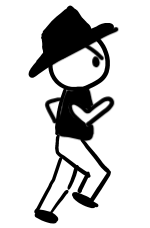
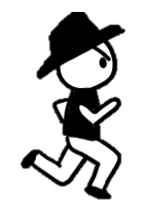
용의 불피하는 캐릭터로 변신완료 js  완료

Changed region(s): [[0.1342, 0.0, 0.8591, 0.9955]]

diff --git a/main.js b/main.js
@@ -1,21 +1,25 @@
+// Setting
 var canvas = document.getElementById('canvas');
 var ctx = canvas.getContext('2d');
 
-canvas.width =window.innerWidth -100;
-canvas.height =window.innerHeight -100;
+canvas.width =700;
+canvas.height =300;
+
+
 // 여기까지가 기본 canvas를 사용하기 위한 환경을 마련한것.
 
 // object자료로 등장 캐릭터의 속성을 미리 정의
+var imgArr = [];
+for (let index = 0; index < 10; index++) {
+    var imgname = `image/man${index}.png`;
+    var image = new Image();
+    image.src=imgname;
+    imgArr.push(image);
+}
 
-// var img 
-// for (let index = 0; index < array.length; index++) {
-//     const element = array[index];
-    
-// }
-
-var img1 = new Image();
-img1.src='image/man1.png';
-
+// var img1 = new Image();
+// img1.src='image/man1.png';
+var nowNum=0;
 var dino = {
     // 공룡 등장 위치
     x:10, 
@@ -25,15 +29,35 @@ var dino = {
     height : 72,
 
     // 공룡 등장마다 호출할 method
+    nowNum : 0,
     draw(){
-        ctx.fillStyle = 'green';
-        ctx.fillRect(this.x, this.y, this.width, this.height);//hitbox
-        ctx.drawImage(img1,this.x,this.y,this.width,this.height);
+        ctx.drawImage(imgArr[nowNum%10],this.x,this.y,this.width,this.height);
+    }
+}
+
+var dragonImg = new Image();
+dragonImg.src='image/dragon.png';
+var dragon = {
+ // 공룡 등장 위치
+    x:500, 
+    y:125,
+    // 공룡 폭과 높이
+    width : 180,
+    height : 150,
+
+    // 공룡 등장마다 호출할 method
+    nowNum : 0,
+    draw(){
+        // ctx.fillStyle = 'whiteSmoke';
+        // ctx.fillRect(this.x, this.y, this.width, this.height);//hitbox
+        ctx.drawImage(dragonImg,this.x,this.y,this.width,this.height);
     }
 }
 
 // 장애물은 데미지량, 사이즈등이 다를 뿐 기능은 비슷한 종류의 object가 많음.
 // 이럴경우 class를 만들면 유리하다.
+var fireImg = new Image();
+fireImg.src='image/fire.png';
 class Cactus{
     constructor(){
         // 등장할 위치
@@ -44,34 +68,53 @@ class Cactus{
         this.height = 50;
     }
     draw(){
-        ctx.fillStyle = 'red';
-        ctx.fillRect(this.x, this.y, this.width, this.height);
+        // ctx.fillStyle = 'whiteSmoke';
+        // ctx.fillRect(this.x, this.y, this.width, this.height);
+        ctx.drawImage(fireImg,this.x,this.y,this.width,this.height);
     }
 }
 
+
+
+
+
 // 동작 부분
 // 애니메이션은 1초에 60번정도 w,h가 변화하도록 하면 됨.
-
 var timer = 0;
 var cactusArr = [];
 var jump_timer =0;
 var jumping =false;
 var animation;
+var floor = 27;
+function canvasInital(){
+    ctx.clearRect(0,0,canvas.width,canvas.height);
+    ctx.fillStyle = 'Black';
+    ctx.fillRect(0,canvas.height-floor,canvas.width,floor);
+}
 function runByFrame(){
-    // js기본 라이브러리 requestAnimationFrame사용. 
-    // 사용하면 알아서 1초에 60번 함수를 호출하도록 함.
+    
+    // initialize
+    // js기본 라이브러리 requestAnimationFrame사용. - 알아서 1초에 60번 함수를 호출하도록 함.
     animation = requestAnimationFrame(runByFrame)
     timer++;
+    canvasInital();
 
-    ctx.clearRect(0,0,canvas.width,canvas.height);
-    
+    // 장애물
     //게임세상은 프레임으로 진행됨. -> timer이용
-    if(timer%200===0){
+    if(timer%150===0){
         var cactus = new Cactus();
         cactusArr.push(cactus);
-    }
+    }    
+    cactusArr.forEach((object , index  ,arr)=>{
+        if(object.x<0) {
+            arr.splice(index,1); // 지우기
+        }
+        object.x-=3;
+        isCrashed(dino, object); // 모든 장애물의 충돌상태를 체크해야하기 떄문에.
+        object.draw();
+    })
 
-    // 점프 처리
+    //  Event
     if(jumping){
         dino.y-=6;
         jump_timer++;
@@ -85,17 +128,13 @@ function runByFrame(){
     if (jump_timer >25){
         jumping=false;
     }
+    if(timer%10===0){
+        nowNum++;
+    }
     dino.draw();
+    dragon.draw();
 
-    
-    cactusArr.forEach((object , index  ,arr)=>{
-        if(object.x<0) {
-            arr.splice(index,1); // 지우기
-        }
-        object.x-=3;
-        isCrashed(dino, object); // 모든 장애물의 충돌상태를 체크해야하기 떄문에.
-        object.draw();
-    })
+
 
 }
 runByFrame();
@@ -105,7 +144,8 @@ function isCrashed(dino, cactus){
     var xDiff = cactus.x-(dino.x+dino.width);
     var yDiff = cactus.y-(dino.y+dino.height);
     if(xDiff<=-15 && yDiff<=0){
-        ctx.clearRect(0,0, canvas.width, canvas.height);
+        // ctx.clearRect(0,0, canvas.width, canvas.height);
+        canvasInital();
         cancelAnimationFrame(animation);
     }
 

diff --git a/index.html b/index.html
@@ -4,9 +4,18 @@
     <meta charset="UTF-8">
     <meta http-equiv="X-UA-Compatible" content="IE=edge">
     <meta name="viewport" content="width=device-width, initial-scale=1.0">
-    <title>Document</title>
+    <title>불꽃탐험대</title>
+    <style>
+        canvas { 
+            background-color: whitesmoke;
+            align-content: center;
+        }
+    </style>
 </head>
 <body>
+    <title>
+        <pre>level : </pre><pre>0</pre>
+    </title>
     <canvas id="canvas"> <!-- canvas는 그림, 이미지를 그릴 수 있게하는 태그 -->
         <script src="main.js"></script>
     </canvas>
